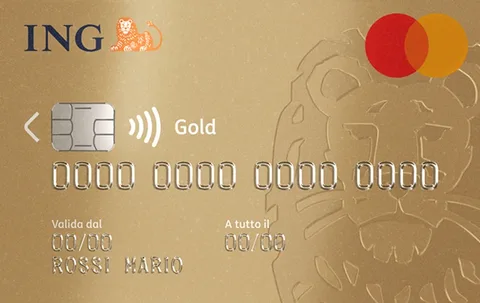
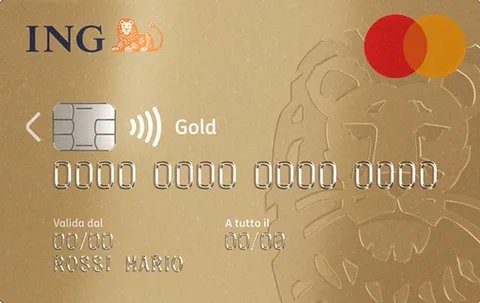
Carte: selettore allineato, tutte della stessa misura
La carta selezionata non viene più ingrandita: stesso formato
85,6x54 mm per tutte, contorno sulla selezionata e le altre attenuate;
due carte e il + affiancati su iPhone, misura fissa su iPad/Mac.
Ritaglio della foto ING rifinito.

Claude-Session: https://claude.ai/code/session_01Ru1kaburiuR9xUdQPkXPoM

diff --git a/index.html b/index.html
@@ -137,14 +137,16 @@ table.mx{border-collapse:separate;border-spacing:0;font-size:12px;min-width:max-
 .acct{display:flex;justify-content:space-between;align-items:center;padding:12px 2px;border-bottom:1px solid var(--line);cursor:pointer}
 .acct:last-child{border:none}
 /* selettore delle carte: come carte di plastica (chip e riflesso) */
-.cardsel{display:flex;gap:10px;margin-bottom:14px;overflow-x:auto;scrollbar-width:none;padding:4px 2px 6px}
+.cardsel{display:flex;align-items:stretch;gap:12px;margin-bottom:16px;overflow-x:auto;scrollbar-width:none;padding:5px 5px 8px}
 .cardsel::-webkit-scrollbar{display:none}
-.pcard{flex:1 1 0;min-width:128px;max-width:220px;aspect-ratio:1.586;position:relative;border-radius:9px;border:none;padding:10px 12px;text-align:left;cursor:pointer;overflow:hidden;
-  box-shadow:0 6px 16px rgba(0,0,0,.16), inset 0 0 0 1px rgba(255,255,255,.18);transform:scale(.96);opacity:.72;transition:transform .2s, opacity .2s}
+/* tutte le carte della stessa misura (proporzioni 85,6×54 mm): la selezionata ha il contorno, le altre sono attenuate */
+.pcard{flex:0 0 auto;width:calc((100% - 70px) / 2);max-width:250px;aspect-ratio:1.586;position:relative;border-radius:10px;border:none;padding:10px 12px;text-align:left;cursor:pointer;overflow:hidden;
+  box-shadow:0 6px 16px rgba(0,0,0,.16), inset 0 0 0 1px rgba(255,255,255,.18);opacity:.62;transition:opacity .2s, box-shadow .2s}
 .pcard span{position:relative;z-index:1;font-weight:800;font-size:13.5px;letter-spacing:.01em}
 .pcard i{position:absolute;left:12px;bottom:11px;width:24px;height:18px;border-radius:4px;background:linear-gradient(135deg,#f7e9b8,#c8a24a 55%,#e8d38b);box-shadow:inset 0 0 0 1px rgba(0,0,0,.18)}
 .pcard::after{content:'';position:absolute;inset:0;background:linear-gradient(115deg,rgba(255,255,255,.38),rgba(255,255,255,0) 42%)}
-.pcard.on{transform:none;opacity:1;box-shadow:0 8px 22px rgba(0,0,0,.22), 0 0 0 2px var(--panel), 0 0 0 4px var(--ink)}
+.pcard:hover{opacity:.85}
+.pcard.on{opacity:1;box-shadow:0 8px 22px rgba(0,0,0,.22), 0 0 0 2px var(--bg), 0 0 0 4.5px var(--ink)}
 .pcard.oro{background:linear-gradient(135deg,#a77a26,#e7cc78 42%,#c99b3d 68%,#9c6f1f);color:#3a2808}
 .pcard.oro i{background:linear-gradient(135deg,#f4f4f4,#b9bdc2 55%,#e6e8ea)}
 .pcard.blu{background:linear-gradient(135deg,#051a38,#0b3d7c 58%,#06234a);color:#fff}
@@ -154,7 +156,7 @@ table.mx{border-collapse:separate;border-spacing:0;font-size:12px;min-width:max-
 .pcard.foto{background-size:cover;background-position:center}
 .pcard.foto span,.pcard.foto i{display:none}
 .pcard.foto::after{background:linear-gradient(115deg,rgba(255,255,255,.18),rgba(255,255,255,0) 40%)}
-.pcard-add{flex:0 0 52px;align-self:stretch;border-radius:9px;border:1.5px dashed var(--ink3);background:none;color:var(--ink2);font-size:22px;cursor:pointer;transform:scale(.96)}
+.pcard-add{flex:0 0 46px;border-radius:10px;border:1.5px dashed var(--ink3);background:none;color:var(--ink2);font-size:22px;cursor:pointer;}
 .ord{display:flex;align-items:center;gap:6px;padding:8px 2px;border-bottom:1px solid var(--line);cursor:pointer}
 .ord span{flex:1;min-width:0;white-space:nowrap;overflow:hidden;text-overflow:ellipsis}
 .ord.sub{padding-left:20px;font-size:13px;color:var(--ink2);cursor:default;background:var(--sub-bg)}
